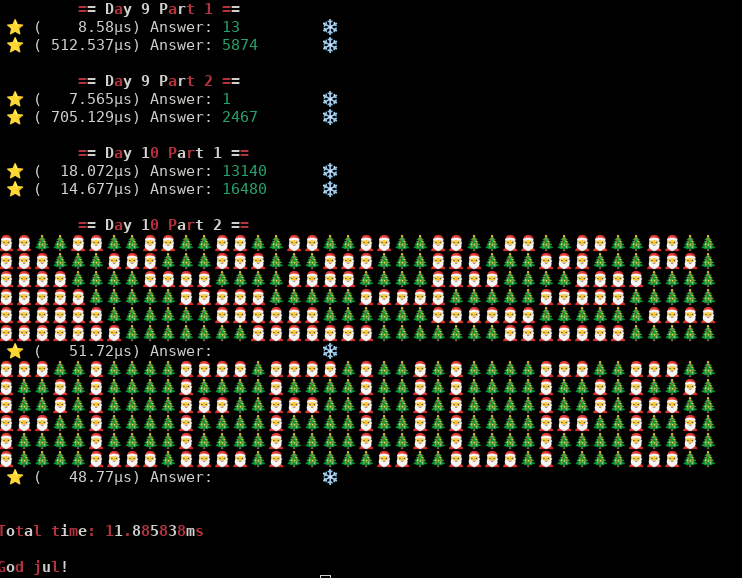
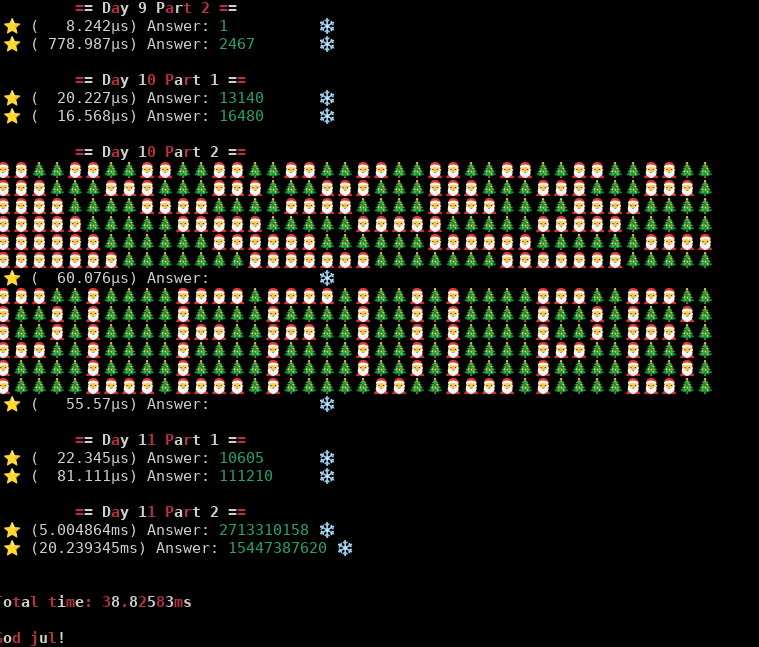
day 11

diff --git a/src/days/day11.rs b/src/days/day11.rs
@@ -1,0 +1,244 @@
+use std::{collections::VecDeque, str::FromStr};
+
+use crate::days::aoc::{read_file_str, Solution};
+
+use super::aoc::{get_path, Answer, Files};
+
+#[derive(Copy, Clone, Debug)]
+enum OperationType {
+    Add,
+    Multiply,
+}
+
+enum OperationValue {
+    Old,
+    Value(u128),
+}
+
+struct Monkey {
+    holding: VecDeque<u128>,
+    operation_type: OperationType,
+    operation_value: OperationValue,
+    divisible_by: u128,
+    divisible_true: usize,
+    divisible_false: usize,
+    inspects: u128,
+}
+
+impl FromStr for Monkey {
+    type Err = ();
+
+    fn from_str(s: &str) -> Result<Self, Self::Err> {
+        let lines: Vec<&str> = s.split("\n").collect();
+        // Starting items
+        let holding = lines
+            .iter()
+            .nth(1)
+            .unwrap()
+            .split_once(":")
+            .unwrap()
+            .1
+            .trim()
+            .replace(",", "")
+            .split_whitespace()
+            .map(|s| s.parse::<u128>().unwrap())
+            .collect::<VecDeque<u128>>();
+
+        // operation
+        let (operation_type_str, operation_value_str) = lines
+            .iter()
+            .nth(2)
+            .unwrap()
+            .strip_prefix("  Operation: new = old ")
+            .unwrap()
+            .split_once(" ")
+            .unwrap();
+
+        let operation_type: OperationType = match operation_type_str {
+            "+" => OperationType::Add,
+            "*" => OperationType::Multiply,
+            _ => panic!("whaaat type is that!?"),
+        };
+
+        let operation_value = match operation_value_str {
+            "old" => OperationValue::Old,
+            val => OperationValue::Value(u128::from_str_radix(val, 10).unwrap()),
+        };
+
+        // divisable
+        let divisible_by = lines
+            .iter()
+            .nth(3)
+            .unwrap()
+            .strip_prefix("  Test: divisible by ")
+            .unwrap()
+            .parse::<u128>()
+            .unwrap();
+
+        // monky target true
+        let divisible_true = lines
+            .iter()
+            .nth(4)
+            .unwrap()
+            .strip_prefix("    If true: throw to monkey ")
+            .unwrap()
+            .parse::<usize>()
+            .unwrap();
+
+        let divisible_false = lines
+            .iter()
+            .nth(5)
+            .unwrap()
+            .strip_prefix("    If false: throw to monkey ")
+            .unwrap()
+            .parse::<usize>()
+            .unwrap();
+
+        return Ok(Monkey {
+            holding,
+            operation_type,
+            operation_value,
+            divisible_by,
+            divisible_true,
+            divisible_false,
+            inspects: 0,
+        });
+    }
+}
+
+fn monkies_from_str(s: &str) -> Vec<Monkey> {
+    return s
+        .split("\n\n")
+        .map(|f| Monkey::from_str(f).unwrap())
+        .collect();
+}
+
+fn process_rounds(monkeys: &mut Vec<Monkey>, baseline: u128, skip_divide: bool) {
+    for monkey_index in 0..monkeys.len() {
+        while monkeys[monkey_index].holding.len() > 0 {
+            let monkey = &mut monkeys[monkey_index];
+            let item = monkey.holding.pop_front();
+
+            if let Some(item) = item {
+                let operatation_value = match &monkey.operation_value {
+                    OperationValue::Old => item.clone(),
+                    OperationValue::Value(val) => val.clone(),
+                };
+
+                let new_value_after_inspection = match monkey.operation_type {
+                    OperationType::Add => (item + operatation_value) % baseline,
+                    OperationType::Multiply => (item * operatation_value) % baseline,
+                };
+
+                let new_value_after_relief = if skip_divide {
+                    &new_value_after_inspection / 3
+                } else {
+                    new_value_after_inspection
+                };
+
+                let throw_target_test = new_value_after_relief % monkey.divisible_by == 0;
+                let monkey_throw_true = monkey.divisible_true;
+                let monkey_throw_false = monkey.divisible_false;
+
+                monkey.inspects += 1;
+
+                drop(monkey);
+
+                match throw_target_test {
+                    true => monkeys[monkey_throw_true]
+                        .holding
+                        .push_back(new_value_after_relief),
+                    false => monkeys[monkey_throw_false]
+                        .holding
+                        .push_back(new_value_after_relief),
+                };
+            }
+        }
+    }
+}
+
+pub struct Day11 {}
+impl Day11 {
+    pub fn new() -> Self {
+        Self {}
+    }
+
+    fn solve1(data: String) -> String {
+        let mut monkies = monkies_from_str(&data);
+
+        let baseline = monkies
+            .iter()
+            .map(|monkey| monkey.divisible_by)
+            .product::<u128>();
+
+        for _ in 0..20 {
+            process_rounds(&mut monkies, baseline, true);
+        }
+
+        let mut top_monkies = monkies.iter().map(|m| m.inspects).collect::<Vec<u128>>();
+
+        top_monkies.sort();
+        top_monkies.reverse();
+
+        let solution: u128 = top_monkies[0] * top_monkies[1];
+
+        return solution.to_string();
+    }
+
+    fn solve2(data: String) -> String {
+        let mut monkies = monkies_from_str(&data);
+
+        let baseline = monkies
+            .iter()
+            .map(|monkey| monkey.divisible_by)
+            .product::<u128>();
+
+        for _ in 0..10_000 {
+            process_rounds(&mut monkies, baseline, false);
+        }
+
+        let mut top_monkies = monkies.iter().map(|m| m.inspects).collect::<Vec<u128>>();
+
+        top_monkies.sort();
+        top_monkies.reverse();
+
+        let solution: u128 = top_monkies[0] * top_monkies[1];
+
+        return solution.to_string();
+    }
+}
+
+impl Solution for Day11 {
+    fn solve_example1(&self) -> Answer {
+        let instant = self.timer_start();
+        let data = read_file_str(&get_path(Files::Example1, self.get_day()));
+        let solution = Day11::solve1(data);
+        return Answer::new(&solution.to_string(), instant.elapsed());
+    }
+
+    fn solve_part1(&self) -> Answer {
+        let instant = self.timer_start();
+        let data = read_file_str(&get_path(Files::Part1, self.get_day()));
+        let solution = Day11::solve1(data);
+        return Answer::new(&solution.to_string(), instant.elapsed());
+    }
+
+    fn solve_example2(&self) -> Answer {
+        let instant = self.timer_start();
+        let data = read_file_str(&get_path(Files::Example1, self.get_day()));
+        let solution = Day11::solve2(data);
+        return Answer::new(&solution.to_string(), instant.elapsed());
+    }
+
+    fn solve_part2(&self) -> Answer {
+        let instant = self.timer_start();
+        let data = read_file_str(&get_path(Files::Part1, self.get_day()));
+        let solution = Day11::solve2(data);
+
+        return Answer::new(&solution.to_string(), instant.elapsed());
+    }
+
+    fn get_day(&self) -> i32 {
+        return 11;
+    }
+}

diff --git a/benches/aoc_benchmark.rs b/benches/aoc_benchmark.rs
@@ -1,5 +1,7 @@
 use criterion::{criterion_group, criterion_main, Criterion};
-use rust_aoc2022::days::{Day1, Day10, Day2, Day3, Day4, Day5, Day6, Day7, Day8, Day9, Solution};
+use rust_aoc2022::days::{
+    Day1, Day10, Day11, Day2, Day3, Day4, Day5, Day6, Day7, Day8, Day9, Solution,
+};
 
 fn day_1_part_1(c: &mut Criterion) {
     let day1 = Day1::new();
@@ -141,6 +143,20 @@ fn day_10_part_2(c: &mut Criterion) {
     });
 }
 
+fn day_11_part_1(c: &mut Criterion) {
+    let day11 = Day11::new();
+    c.bench_function("Day 11 Part 1", |b| {
+        b.iter(|| day11.solve_part1());
+    });
+}
+
+fn day_11_part_2(c: &mut Criterion) {
+    let day11 = Day11::new();
+    c.bench_function("Day 11 Part 2", |b| {
+        b.iter(|| day11.solve_part2());
+    });
+}
+
 criterion_group!(
     benches,
     day_1_part_1,
@@ -163,5 +179,7 @@ criterion_group!(
     day_9_part_2,
     day_10_part_1,
     day_10_part_2,
+    day_11_part_1,
+    day_11_part_2,
 );
 criterion_main!(benches);

diff --git a/src/main.rs b/src/main.rs
@@ -2,7 +2,7 @@ use std::time::Instant;
 
 use days::{
     aoc::{christmas_print, pretty_print_banner, pretty_print_linebreak},
-    Day1, Day10, Day2, Day3, Day4, Day5, Day6, Day7, Day8, Day9, Solution,
+    Day1, Day10, Day11, Day2, Day3, Day4, Day5, Day6, Day7, Day8, Day9, Solution,
 };
 
 mod days;
@@ -19,6 +19,7 @@ fn main() {
         Box::new(Day8::new()),
         Box::new(Day9::new()),
         Box::new(Day10::new()),
+        Box::new(Day11::new()),
     ];
 
     pretty_print_linebreak();

diff --git a/src/days/mod.rs b/src/days/mod.rs
@@ -1,6 +1,7 @@
 pub mod aoc;
 pub mod day1;
 pub mod day10;
+pub mod day11;
 pub mod day2;
 pub mod day3;
 pub mod day4;
@@ -14,6 +15,7 @@ pub use self::aoc::Files;
 pub use self::aoc::Solution;
 pub use self::day1::Day1;
 pub use self::day10::Day10;
+pub use self::day11::Day11;
 pub use self::day2::Day2;
 pub use self::day3::Day3;
 pub use self::day4::Day4;
